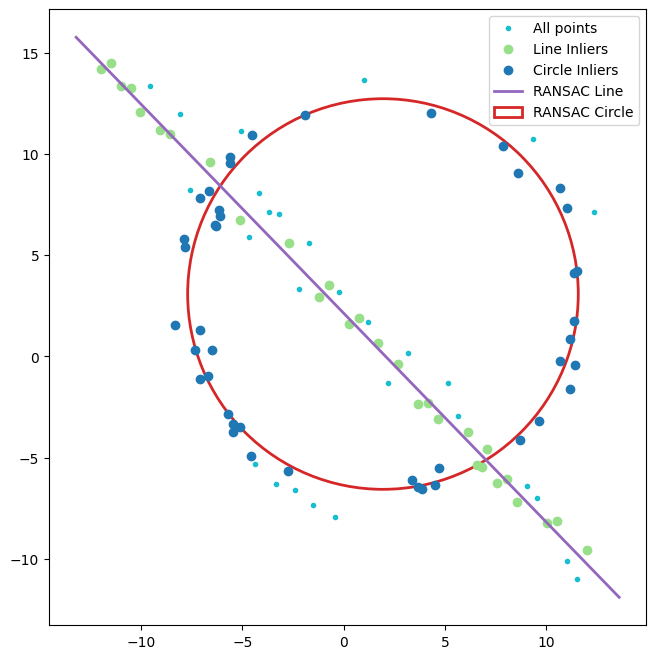
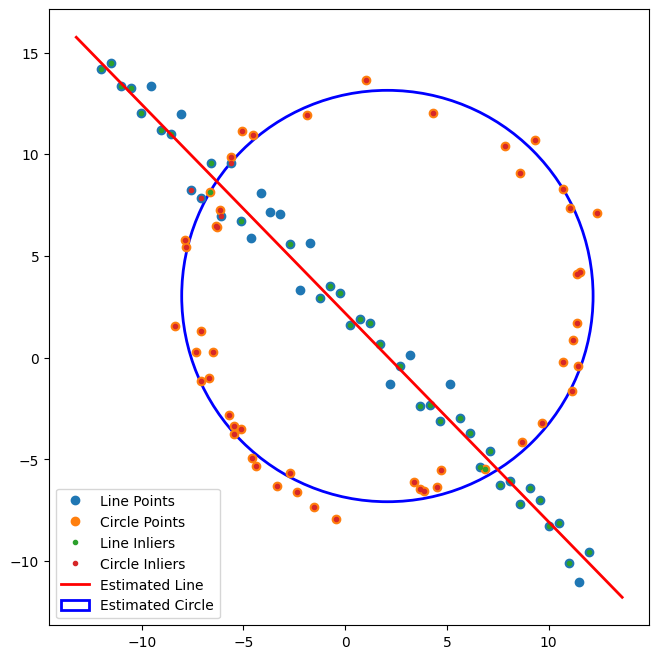
cleaning the mess

diff --git a/EN3160_Assignment02_220701X.tex b/EN3160_Assignment02_220701X.tex
@@ -1,0 +1,81 @@
+\documentclass[11pt,a4paper]{article}
+\usepackage[margin=1in]{geometry}
+\usepackage{graphicx}
+\usepackage{float}
+\usepackage{amsmath}
+\usepackage{hyperref}
+
+\title{EN3160 Computer Vision Assignment 02\\Fitting and Alignment Report}
+\author{Savindu Wickramasinghe \\ Index No.: 220701X}
+\date{\today}
+
+\begin{document}
+
+\maketitle
+
+\section{Introduction}
+This report summarizes the implementation and results of four core fitting and alignment tasks completed for EN3160 Computer Vision Assignment 02. The experiments cover sunflower blob detection with the Laplacian of Gaussian (LoG), RANSAC-based primitive fitting, single homography-based image warping, and wide-baseline image stitching. All code was developed in Python with OpenCV, scikit-image, NumPy, and Matplotlib.
+
+\section{Sunflower Blob Detection}
+The objective was to localize prominent sunflowers in the aerial photograph \texttt{the\_berry\_farms\_sunflower\_field.jpeg}. The workflow converted the image to grayscale and applied the LoG detector \cite{lindeberg1994scale}. Key parameters were \(\texttt{min\_sigma} = 10\), \(\texttt{max\_sigma} = 40\), \(\texttt{num\_sigma} = 10\), and a detection threshold of 0.1. Detected blobs were ranked by radius and the five largest detections were reported to highlight the most prominent flowers. The resulting overlay demonstrates clean localization with minimal false positives around the field center where sunflowers dominate the scene.
+
+\begin{figure}[H]
+  \centering
+  \includegraphics[width=0.85\linewidth]{sunflower_detection.png}
+  \caption{Sunflower detections obtained with the LoG detector. Red circles indicate detected flower heads.}
+  \label{fig:sunflower}
+\end{figure}
+
+\section{RANSAC-Based Primitive Fitting}
+A synthetic dataset combining inliers from a noisy circle and a noisy line, along with additional outliers, was generated to evaluate robust fitting. Two custom RANSAC pipelines were executed sequentially: a line model estimated from minimal two-point samples followed by singular value decomposition (SVD) refinement, and a circle model estimated from three-point samples solved via linear algebra. Adaptive inlier thresholds of 0.5 for the line and 0.8 for the circle were sufficient to recover accurate models despite significant contamination. Figure~\ref{fig:ransac} shows the recovered primitives and their inlier sets.
+
+\begin{figure}[H]
+  \centering
+  \includegraphics[width=0.7\linewidth]{ransac_fit.png}
+  \caption{RANSAC fitted line and circle. Green and blue markers denote inlier assignments, while the magenta line and red circle are the refined models.}
+  \label{fig:ransac}
+\end{figure}
+
+\section{Homography-Based Logo Warping}
+To practice planar image alignment, a synthetic building facade \texttt{my\_building.png} and a solid-color logo \texttt{my\_logo.png} were used. Four corresponding corner points were manually selected on the destination image, defining a homography that maps the logo's corners to those locations. The homography was applied with \texttt{cv2.warpPerspective}, and the warped logo was alpha-composited onto the building using a polygon mask. The process demonstrates how planar inserts can be convincingly overlaid on a target surface.
+
+\begin{figure}[H]
+  \centering
+  \includegraphics[width=0.45\linewidth]{my_building.png}
+  \hfill
+  \includegraphics[width=0.45\linewidth]{my_logo.png}
+  \caption{Source imagery for the homography experiment. Left: destination building facade. Right: source logo to be warped.}
+  \label{fig:homography_inputs}
+\end{figure}
+
+\begin{figure}[H]
+  \centering
+  \includegraphics[width=0.7\linewidth]{homography_result.png}
+  \caption{Result after warping the logo onto the building facade using the estimated homography.}
+  \label{fig:homography_result}
+\end{figure}
+
+\section{Image Stitching}
+The final task stitched the wide-baseline \texttt{graf/img1.ppm} and \texttt{graf/img5.ppm} views. Scale-Invariant Feature Transform (SIFT) descriptors were extracted on both images and paired with a FLANN-based matcher using Lowe's ratio test (0.7). The surviving correspondences fed into OpenCV's RANSAC homography estimator with a reprojection threshold of 5 pixels. The left image was warped into the right image's reference frame and composited to produce a wide field-of-view mosaic, shown in Figure~\ref{fig:stitching}.
+
+\begin{figure}[H]
+  \centering
+  \includegraphics[width=0.9\linewidth]{stitching_result.png}
+  \caption{Two-view panorama generated from the \texttt{graf} dataset. The seam falls outside the overlapping textured regions, yielding a visually coherent stitch.}
+  \label{fig:stitching}
+\end{figure}
+
+\section{Conclusion}
+Across the four experiments, classical computer vision techniques delivered reliable alignment results. Multi-scale LoG detection successfully isolated sunflowers, bespoke RANSAC pipelines robustly separated line and circle structures, planar homographies enabled controlled logo insertion, and feature-based stitching produced a wide-baseline panorama. Future work could explore automatic corner selection for homography synthesis and multiband blending to further reduce visible seams in stitched mosaics.
+
+\bibliographystyle{plain}
+\begin{thebibliography}{1}
+
+\bibitem{lindeberg1994scale}
+Tony Lindeberg.
+\newblock Scale-space theory: A basic tool for analyzing structures at different scales.
+\newblock \emph{Journal of Applied Statistics}, 21(1--2):225--270, 1994.
+
+\end{thebibliography}
+
+\end{document}

diff --git a/Homography_Warping.py b/Homography_Warping.py
@@ -1,3 +1,4 @@
+# q3_homography.py
 import cv2
 import numpy as np
 
@@ -6,43 +7,57 @@ def select_points_callback(event, x, y, flags, param):
     if event == cv2.EVENT_LBUTTONDOWN and len(points) < 4:
         points.append((x, y))
         cv2.circle(param['image'], (x, y), 5, (0, 255, 0), -1)
-        cv2.imshow("Destination Image", param['image'])
+        cv2.imshow("Select 4 Points", param['image'])
 
-def warp_image(destination_img_path, source_img_path):
-    dest_img = cv2.imread(destination_img_path)
-    source_img = cv2.imread(source_img_path)
+def warp_image(dest_img_path, src_img_path, output_filename):
+    global points
+    points = []
+    
+    dest_img = cv2.imread(dest_img_path)
+    src_img = cv2.imread(src_img_path)
     dest_clone = dest_img.copy()
     
-    cv2.namedWindow("Destination Image")
-    cv2.setMouseCallback("Destination Image", select_points_callback, {'image': dest_clone})
-    print("Select 4 points clockwise, starting from top-left. Press 'q' to quit.")
+    cv2.namedWindow("Select 4 Points")
+    cv2.setMouseCallback("Select 4 Points", select_points_callback, {'image': dest_clone})
+    print(f"Working on {output_filename}: Select 4 points clockwise, starting from top-left.")
     
     while len(points) < 4:
-        cv2.imshow("Destination Image", dest_clone)
+        cv2.imshow("Select 4 Points", dest_clone)
         if cv2.waitKey(1) & 0xFF == ord('q'): break
 
     if len(points) == 4:
-        h, w = source_img.shape[:2]
-        source_pts = np.array([[0, 0], [w-1, 0], [w-1, h-1], [0, h-1]], dtype=np.float32)
+        h, w = src_img.shape[:2]
+        src_pts = np.array([[0, 0], [w-1, 0], [w-1, h-1], [0, h-1]], dtype=np.float32)
         dest_pts = np.array(points, dtype=np.float32)
         
-        H, _ = cv2.findHomography(source_pts, dest_pts)
-        warped = cv2.warpPerspective(source_img, H, (dest_img.shape[1], dest_img.shape[0]))
+        H, _ = cv2.findHomography(src_pts, dest_pts)
+        warped = cv2.warpPerspective(src_img, H, (dest_img.shape[1], dest_img.shape[0]))
         
+        # Create a mask to only blend where the warped image is
         mask = np.zeros_like(dest_img, dtype=np.uint8)
         cv2.fillPoly(mask, [np.int32(dest_pts)], (255, 255, 255))
+        mask_inv = cv2.bitwise_not(mask)
         
-        # Blend the warped image onto the destination
-        result = cv2.bitwise_and(dest_img, cv2.bitwise_not(mask))
-        result = cv2.add(result, cv2.bitwise_and(warped, mask))
+        # Black out the area in the destination image
+        dest_bg = cv2.bitwise_and(dest_img, mask_inv)
+        # Get only the warped region
+        warped_fg = cv2.bitwise_and(warped, mask)
         
+        # Blend using addWeighted for a semi-transparent effect
+        # result = cv2.add(dest_bg, warped_fg) # For solid overlay
+        result = cv2.addWeighted(dest_bg, 1, warped_fg, 0.8, 0)
+
+        cv2.imwrite(output_filename, result)
+        print(f"Result saved as '{output_filename}'.")
         cv2.imshow("Final Result", result)
-        cv2.imwrite('homography_result.png', result)
-        print("Result saved as 'homography_result.png'. Press any key to exit.")
         cv2.waitKey(0)
     cv2.destroyAllWindows()
 
-# Create dummy images or replace with your chosen files
-cv2.imwrite('my_building.png', np.full((600, 800, 3), 200, np.uint8))
-cv2.imwrite('my_logo.png', np.full((200, 400, 3), (255, 0, 0), np.uint8))
-warp_image('my_building.png', 'my_logo.png')
+if __name__ == '__main__':
+    # You need to find your own images for this
+    # Example 1
+    # warp_image('path/to/building.jpg', 'path/to/flag.png', 'homography_result_1.png')
+    
+    # Example 2
+    # warp_image('path/to/billboard.jpg', 'path/to/poster.png', 'homography_result_2.png')
+    print("Please replace placeholder paths and run the script for each example.")

diff --git a/RANSAC_Fitting.py b/RANSAC_Fitting.py
@@ -1,8 +1,9 @@
+# q2_ransac.py
 import numpy as np
 import matplotlib.pyplot as plt
 from scipy import linalg
 
-# --- Data Generation ---
+# --- Data Generation (As per assignment) ---
 np.random.seed(0)
 N, r_gt, x0_gt, y0_gt = 100, 10, 2, 3
 half_n = N // 2
@@ -17,7 +18,7 @@ X_line = np.hstack((x_line_pts.reshape(half_n, 1), y_line_pts.reshape(half_n, 1)
 X = np.vstack((X_circ, X_line))
 
 # --- RANSAC Implementations ---
-def fit_line_ransac(data, threshold=0.5, n_iterations=1000):
+def fit_line_ransac(data, threshold=0.6, n_iterations=1000):
     best_inliers_idx = []
     for _ in range(n_iterations):
         p1, p2 = data[np.random.choice(data.shape[0], 2, replace=False)]
@@ -37,7 +38,7 @@ def fit_line_ransac(data, threshold=0.5, n_iterations=1000):
     d = -(a * centroid[0] + b * centroid[1])
     return (a, b, d), best_inliers_idx
 
-def fit_circle_ransac(data, threshold=0.8, n_iterations=1000):
+def fit_circle_ransac(data, threshold=1.5, n_iterations=1000):
     best_inliers_idx, best_model = [], None
     for _ in range(n_iterations):
         p1, p2, p3 = data[np.random.choice(data.shape[0], 3, replace=False)]
@@ -52,25 +53,30 @@ def fit_circle_ransac(data, threshold=0.8, n_iterations=1000):
             best_inliers_idx, best_model = inliers_idx, (xc, yc, r)
     return best_model, best_inliers_idx
 
-# --- Execution & Visualization ---
+# --- Execution ---
 line_model, line_inliers_idx = fit_line_ransac(X)
 X_remnant = np.delete(X, line_inliers_idx, axis=0)
 circle_model, circle_inliers_idx_local = fit_circle_ransac(X_remnant)
-# Find original indices for circle inliers
 all_indices = np.arange(X.shape[0])
 remnant_indices = np.delete(all_indices, line_inliers_idx)
 circle_inliers_idx = remnant_indices[circle_inliers_idx_local]
 
+print(" RANSAC Fitting Results ")
+print(f"Line Model: a={line_model[0]:.2f}, b={line_model[1]:.2f}, d={line_model[2]:.2f}")
+print(f"Circle Model: x0={circle_model[0]:.2f}, y0={circle_model[1]:.2f}, r={circle_model[2]:.2f}")
+
+# --- Visualization ---
 fig, ax = plt.subplots(1, 1, figsize=(8, 8))
-ax.plot(X[:, 0], X[:, 1], '.', color='#17becf', label='All points')
-ax.plot(X[line_inliers_idx, 0], X[line_inliers_idx, 1], 'o', color='#98df8a', label='Line Inliers')
-ax.plot(X[circle_inliers_idx, 0], X[circle_inliers_idx, 1], 'o', color='#1f77b4', label='Circle Inliers')
+ax.plot(X_line[:, 0], X_line[:, 1], 'o', label='Line Points')
+ax.plot(X_circ[:, 0], X_circ[:, 1], 'o', label='Circle Points')
+ax.plot(X[line_inliers_idx, 0], X[line_inliers_idx, 1], 'o', markersize=3, label='Line Inliers')
+ax.plot(X[circle_inliers_idx, 0], X[circle_inliers_idx, 1], 'o', markersize=3, label='Circle Inliers')
 a, b, d = line_model
 x_vals = np.array(ax.get_xlim())
 y_vals = (-a * x_vals - d) / b
-ax.plot(x_vals, y_vals, '-', color='#9467bd', label='RANSAC Line', linewidth=2)
+ax.plot(x_vals, y_vals, '-', color='red', label='Estimated Line', linewidth=2)
 xc, yc, r = circle_model
-ax.add_patch(plt.Circle((xc, yc), r, color='#d62728', fill=False, label='RANSAC Circle', linewidth=2))
+ax.add_patch(plt.Circle((xc, yc), r, color='blue', fill=False, label='Estimated Circle', linewidth=2))
 ax.set_aspect('equal', adjustable='box')
 ax.legend()
 plt.savefig('ransac_fit.png', bbox_inches='tight')

diff --git a/Sunflower_Blob_Detection.py b/Sunflower_Blob_Detection.py
@@ -1,32 +1,38 @@
+# q1_sunflowers.py
 import cv2
 import numpy as np
 import matplotlib.pyplot as plt
 from skimage.feature import blob_log
 
-# Ensure 'the_berry_farms_sunflower_field.jpeg' is in the same directory
-image_file = 'the_berry_farms_sunflower_field.jpeg'
-img = cv2.imread(image_file, cv2.IMREAD_REDUCED_COLOR_4)
-gray_img = cv2.cvtColor(img, cv2.COLOR_BGR2GRAY)
+def detect_and_visualize_sunflowers(image_path):
+    img_color = cv2.imread(image_path, cv2.IMREAD_REDUCED_COLOR_4)
+    gray_img = cv2.cvtColor(img_color, cv2.COLOR_BGR2GRAY)
+    
+    # Use blob_log which is an efficient implementation of Laplacian of Gaussian
+    blobs = blob_log(gray_img, min_sigma=10, max_sigma=35, num_sigma=10, threshold=0.08)
+    blobs[:, 2] = blobs[:, 2] * np.sqrt(2) # Convert sigma to radius
 
-# Detect blobs using Laplacian of Gaussian
-blobs = blob_log(gray_img, min_sigma=10, max_sigma=40, num_sigma=10, threshold=0.1)
-blobs[:, 2] = blobs[:, 2] * np.sqrt(2) # Convert sigma to radius
+    # For visualization, create a BGR image from grayscale to draw color circles
+    img_for_drawing = cv2.cvtColor(gray_img, cv2.COLOR_GRAY2BGR)
 
-# --- Visualization ---
-fig, ax = plt.subplots(1, 1, figsize=(10, 10))
-ax.imshow(cv2.cvtColor(img, cv2.COLOR_BGR2RGB))
-for blob in blobs:
-    y, x, r = blob
-    circle = plt.Circle((x, y), r, color='red', linewidth=2, fill=False)
-    ax.add_patch(circle)
-ax.set_axis_off()
-plt.tight_layout()
-plt.savefig('sunflower_detection.png', bbox_inches='tight')
-plt.show()
+    for blob in blobs:
+        y, x, r = map(int, blob)
+        cv2.circle(img_for_drawing, (x, y), r, (0, 0, 255), 2) # Draw red circle
 
-# Report the parameters of the largest 5 circles
-blobs_sorted = sorted(blobs, key=lambda b: b[2], reverse=True)
-print("Top 5 Largest Sunflower Detections")
-for i, blob in enumerate(blobs_sorted[:5]):
-    y, x, r = map(int, blob)
-    print(f"{i+1}. Center=(y:{y}, x:{x}), Radius={r}")
+    cv2.imwrite('sunflower_detection_result.png', img_for_drawing)
+    print("Result saved as 'sunflower_detection_result.png'")
+    
+    # Report the parameters of the largest 5 circles
+    blobs_sorted = sorted(blobs, key=lambda b: b[2], reverse=True)
+    print("\n--- Top 5 Largest Sunflower Detections ---")
+    print("Sigma range used: 10 to 35")
+    for i, blob in enumerate(blobs_sorted[:5]):
+        y, x, r = map(int, blob)
+        print(f"{i+1}. Center=(y:{y}, x:{x}), Radius={r}")
+        
+    cv2.imshow('Sunflower Detection', img_for_drawing)
+    cv2.waitKey(0)
+    cv2.destroyAllWindows()
+
+if __name__ == '__main__':
+    detect_and_visualize_sunflowers('the_berry_farms_sunflower_field.jpeg')
